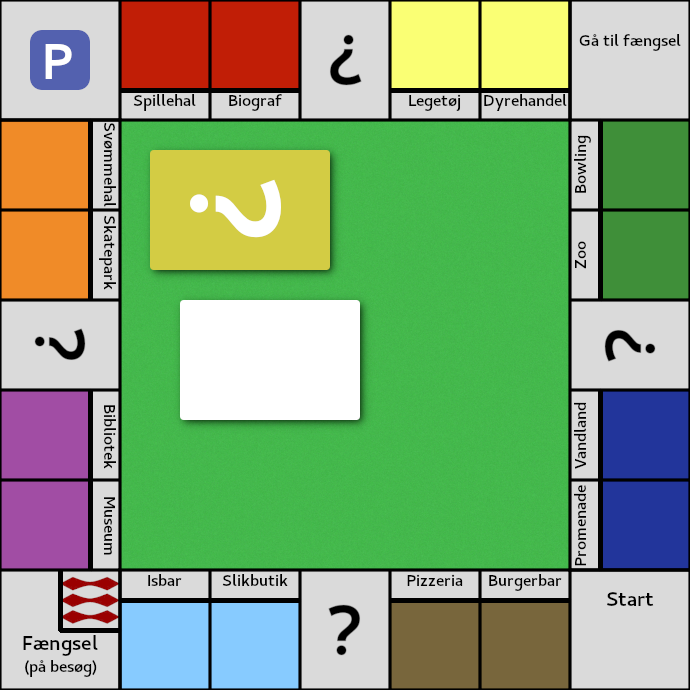
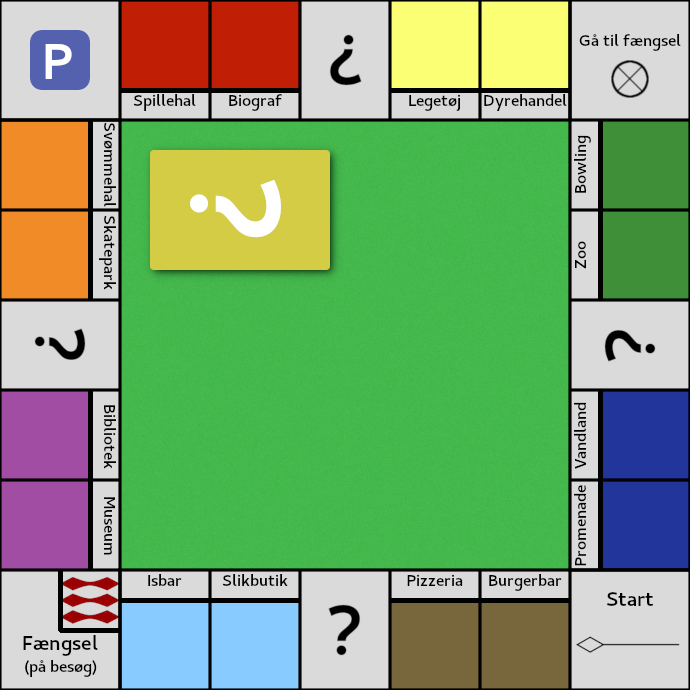
added tokens to board

Changed region(s): [[0.2435, 0.4261, 0.5478, 0.6391], [0.8826, 0.0913, 0.9435, 0.1522], [0.8217, 0.913, 0.8826, 0.9435]]

diff --git a/src/picador/picador.css b/src/picador/picador.css
@@ -5,7 +5,28 @@
     -fx-border-width:10px;
 }
 #table{
-    -fx-background-image: url("../images/wood.jpg");
+    -fx-background-image: url("../images/perstorp.png");
+}
+
+#dogMoneyBox{
+    -fx-background-image: url("../images/dog-money.jpg");
+    -fx-background-position:left;
+    -fx-background-repeat: no-repeat;
+             }
+#catMoneyBox{
+    -fx-background-image: url("../images/cat-money.jpg");
+    -fx-background-position:left;
+    -fx-background-repeat: no-repeat;
+}
+#carMoneyBox{
+    -fx-background-image: url("../images/car-money.jpg");
+    -fx-background-position:left;
+    -fx-background-repeat: no-repeat;
+}
+#boatMoneyBox{
+    -fx-background-image: url("../images/boat-money.jpg");
+    -fx-background-position:left;
+    -fx-background-repeat: no-repeat;
 }
 
 #dogMoney, #catMoney, #carMoney, #boatMoney{

diff --git a/src/picador/Controller.java b/src/picador/Controller.java
@@ -44,9 +44,7 @@ public class Controller{
     public FlowPane card;
 
     public void showText(String text){
-        message = new Text("aaaaaaaaaaaaaaaaaaaaaaaaaaaaaaaaaaaaaaaaaaaaaaaaaaaaaaaaaggg\n" +
-                "ggggggggggggkfgjkfgjfkgjfffffffffffffffffffffffff\n" +
-                "sssssssssssssssssssssssssssssssssssssssssssssssssssssssssssss\nm\nb\nkkk");
+        message = new Text("aaaaaaaaaaaaaaaaaaaaaaaaaaaaaaaaaaaaaaaaaaaaaaaaa");
         card = new FlowPane(message);
     }
 
